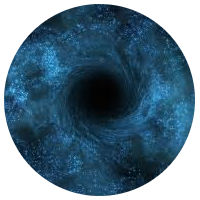
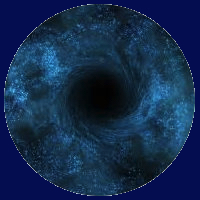
debugging spinner

Changed region(s): [[0.0, 0.0, 1.0, 1.0]]

diff --git a/source/assets/stylesheets/global.scss b/source/assets/stylesheets/global.scss
@@ -21,7 +21,7 @@ $bg1: #000000;
 }
 
 .spinner {
-  position: absolute;
+  position: relative;
   display: block;
   width: 100px;
   height: 100px;
@@ -150,7 +150,7 @@ body {
     height: 500px;
     
     /* appearance */ 
-    background: #64908A; /* mellow green */
+    background: #030D4F; /* dark blue / corben */
     border-radius: 20px;
   }
 
@@ -197,8 +197,9 @@ body {
 
     .narrow {
       /* position */
-      width: 20%;
+      width: 150px;
       height: 20%;
+
       
       /* appearance */
       outline-style: dotted;
